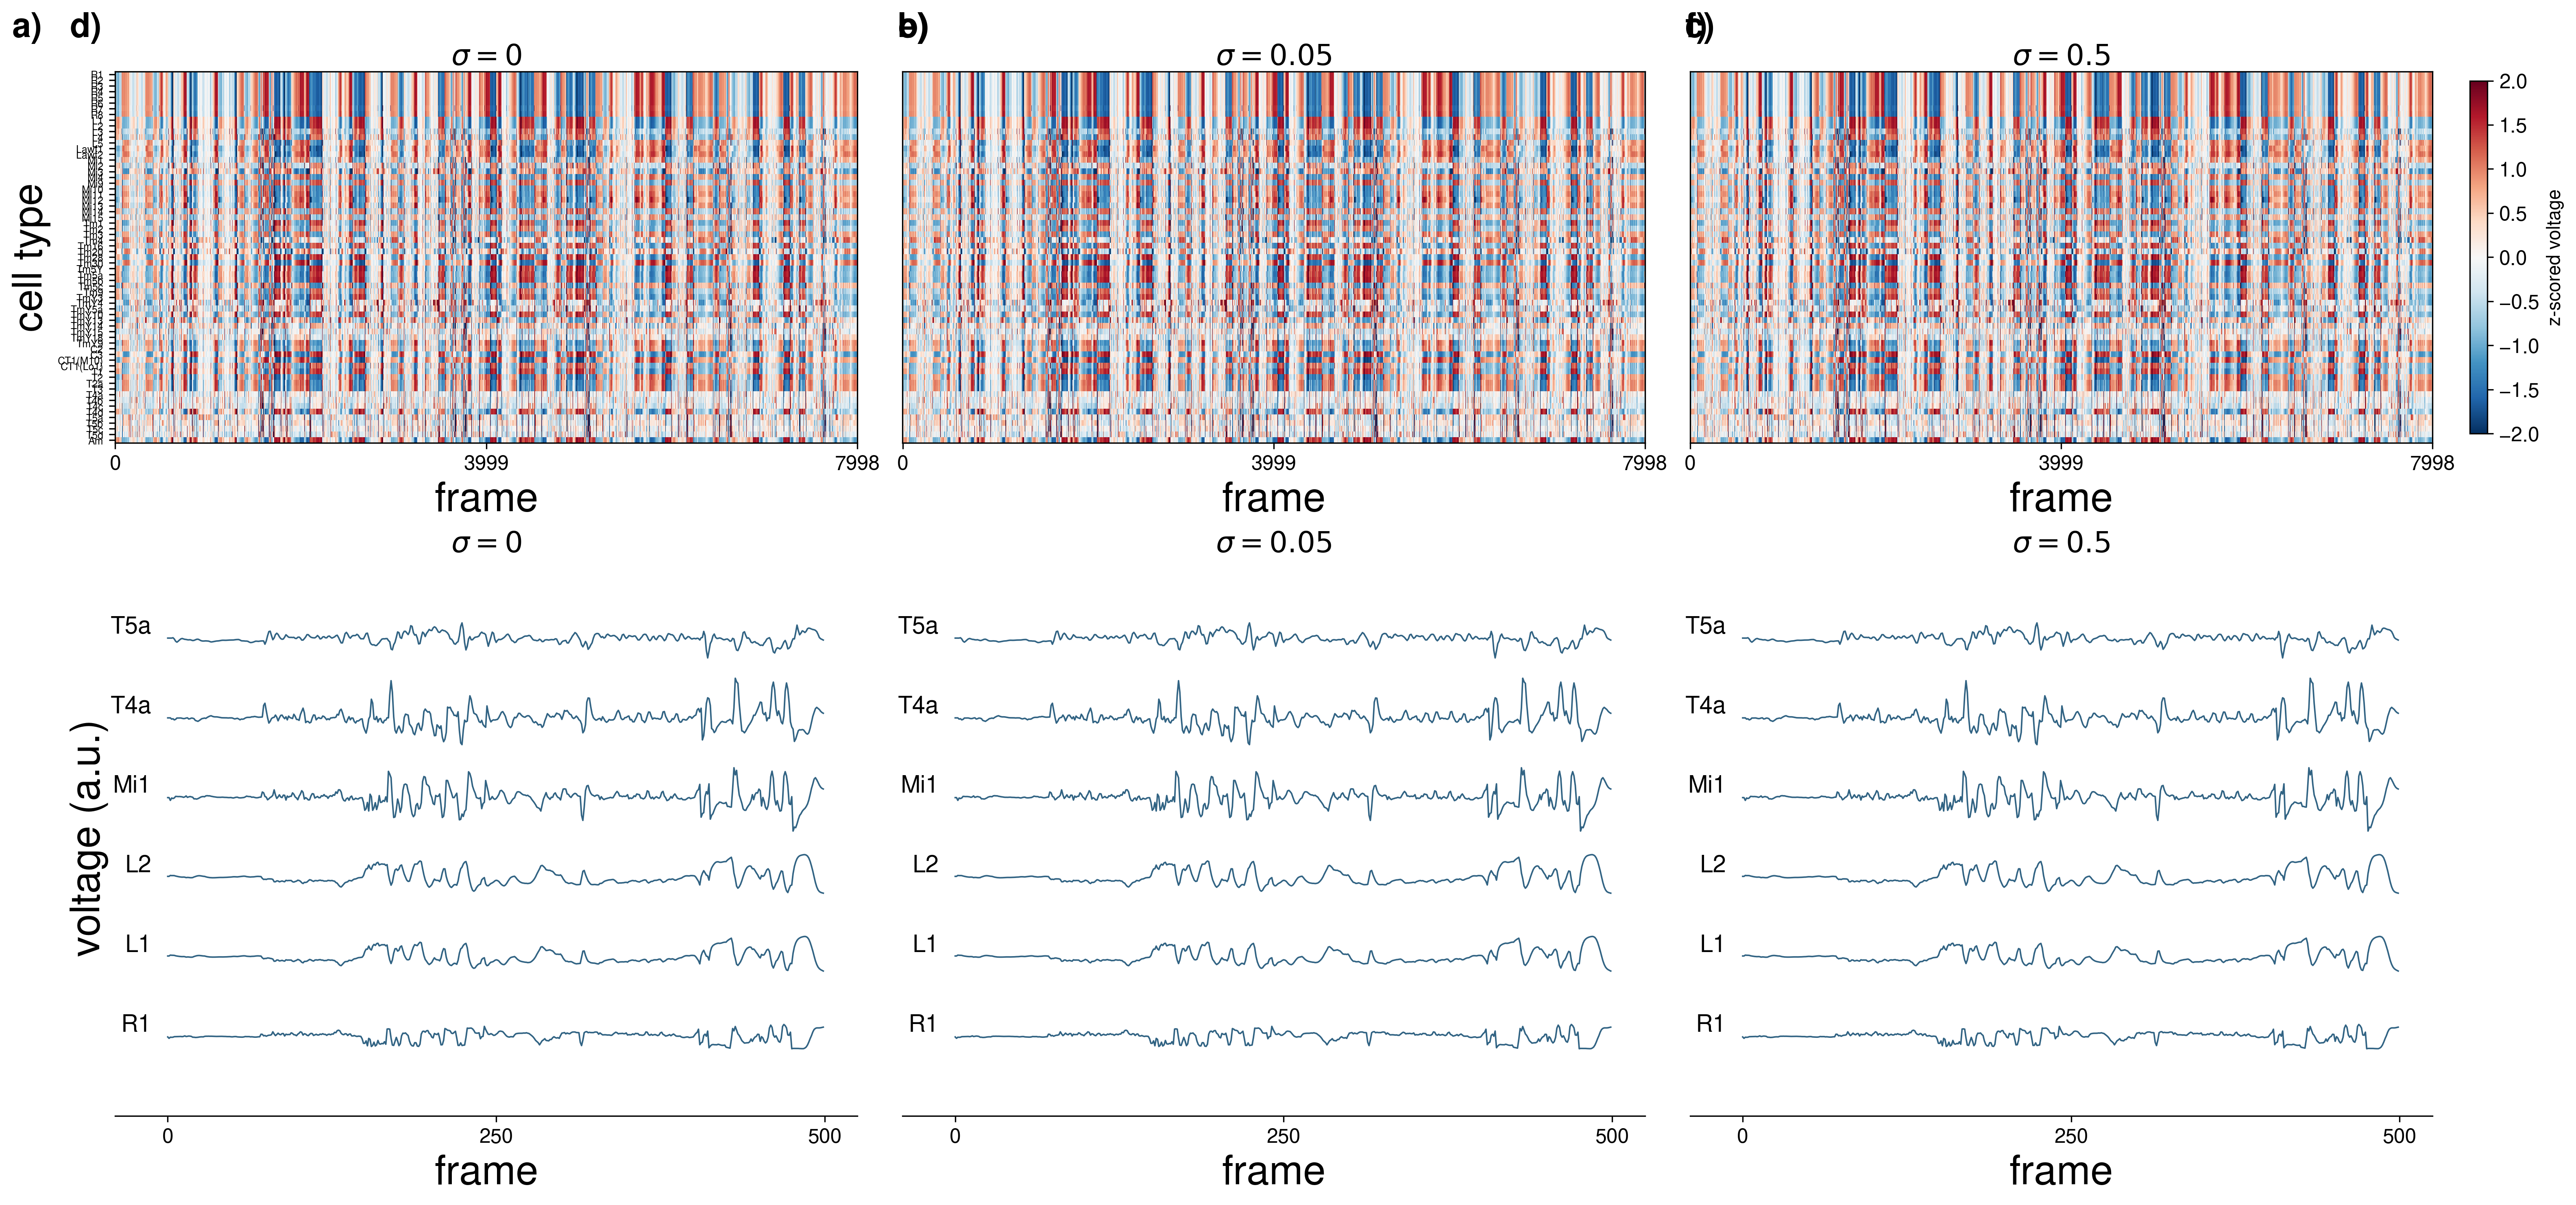
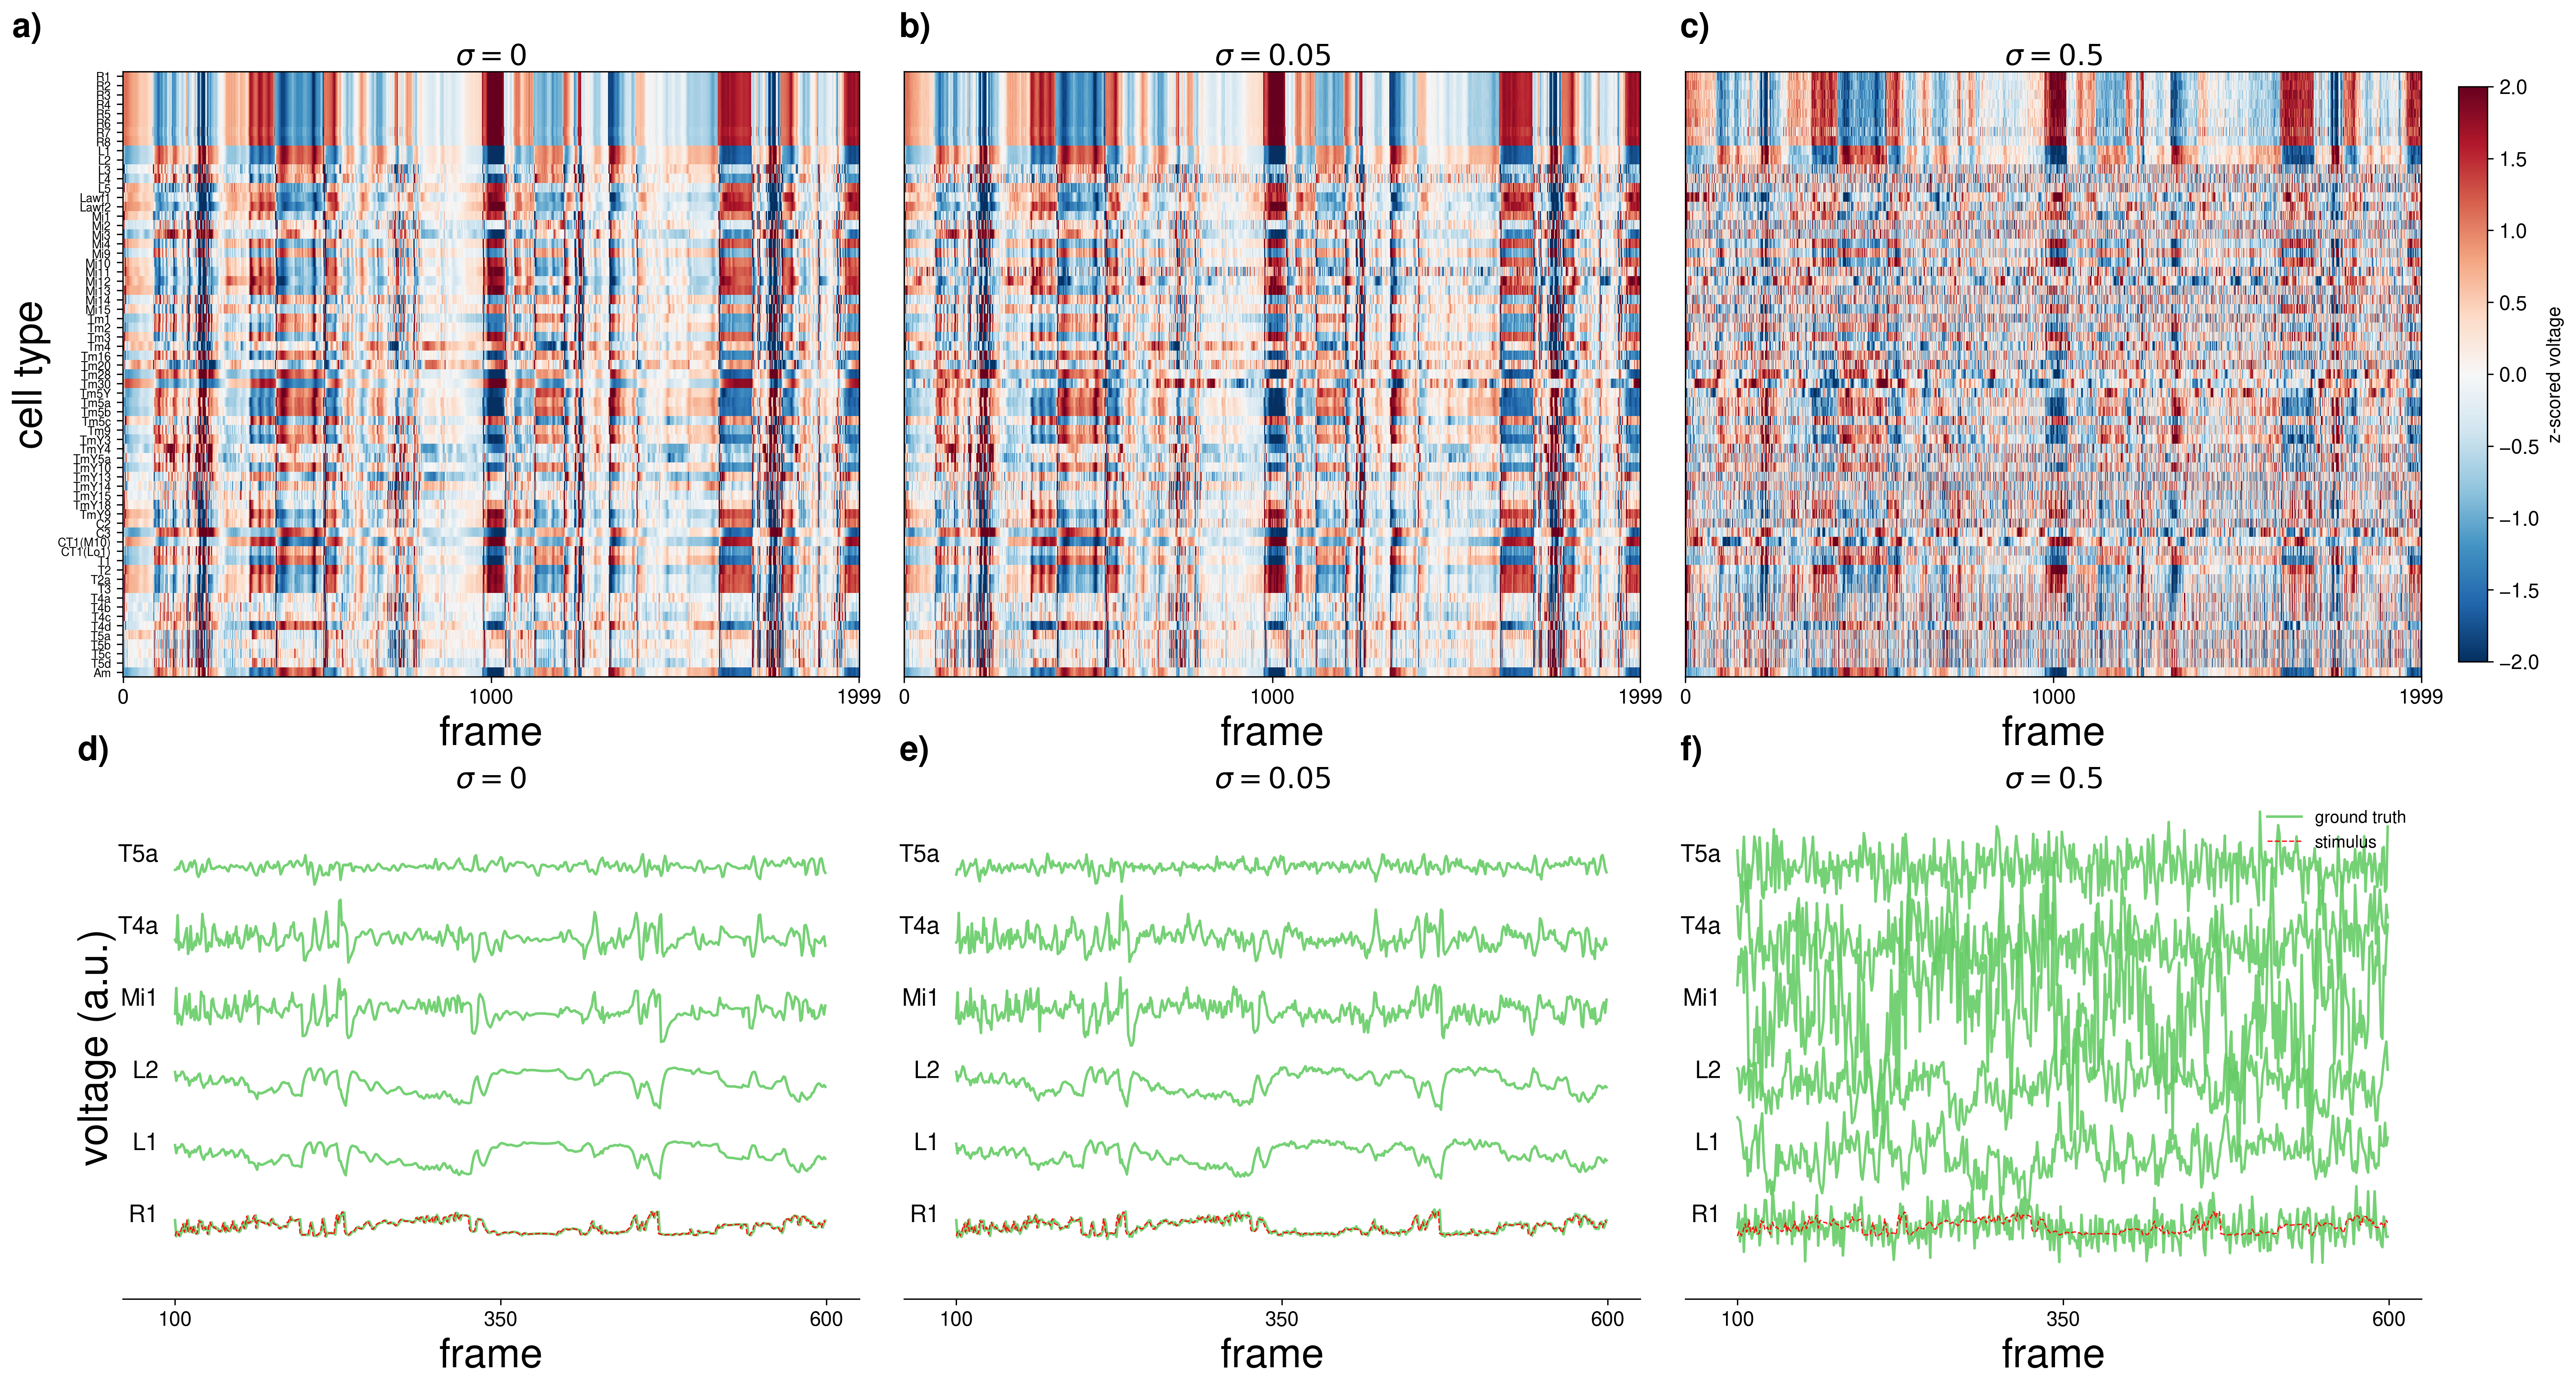
Update fig_simulations: zarr training data, taller heatmap, stimulus traces, label fix
- Load from x_list_train zarr (voltage, stimulus, neuron_type fields) instead
  of rollout_bundle.npz — shows actual noisy training data, not test rollout
- height_ratios [2,3] → [3,2.5]: taller heatmap so cell-type names are legible
- Trace panel: add red dashed stimulus trace (I_i(t)) for types with non-zero
  input (R1 photoreceptors), matching graph_tester.py style
- Panel labels: compute separate y1_max per row so a/b/c align within row 0
  and d/e/f align within row 1, instead of all 6 at global top

diff --git a/figures/fig_simulations.py b/figures/fig_simulations.py
@@ -3,19 +3,22 @@ Figure: simulated neural activity at three intrinsic-noise levels.
 
 Layout (2 rows × 3 columns)
 ---------------------------
-  Row 1 (a–c): type-mean voltage heatmap — 65 cell types × 7 999 frames,
-               z-scored per type, sorted by anatomical order.
-               Conveys the full scale of the training dataset.
+  Row 1 (a–c): type-mean voltage heatmap — 65 cell types × 2 000 frames,
+               z-scored per type (removes type-specific baseline/amplitude
+               so all types are equally visible), anatomically sorted.
+               Conveys the full dataset scale and type-specific dynamics.
   Row 2 (d–f): stacked voltage traces for 6 representative cell types
                (R1 · L1 · L2 · Mi1 · T4a · T5a) over a 500-frame window.
+               Red dashed line = visual-input stimulus I_i(t).
                Conveys the noise effect on individual neuronal dynamics.
 
 Columns left → right: σ = 0 (noise-free), σ = 0.05, σ = 0.5.
-step_v for traces is fixed from σ = 0 so noise is visually comparable.
+step_v for traces is fixed from σ = 0 data so noise is visually comparable.
 
-Input
------
-Three rollout_bundle.npz produced by GNN_Main -o test (graph_tester.py).
+Data source
+-----------
+x_list_train zarr (fields: voltage, stimulus, neuron_type) — the actual
+training data, not the test rollout bundle.
 
 Usage
 -----
@@ -36,7 +39,11 @@ import numpy as np
 # ── project imports ───────────────────────────────────────────────────────────
 REPO = os.path.join(os.path.dirname(__file__), '..')
 sys.path.insert(0, os.path.join(REPO, 'src'))
-from connectome_gnn.metrics import ANATOMICAL_ORDER
+
+from connectome_gnn.config import NeuralGraphConfig
+from connectome_gnn.metrics import ANATOMICAL_ORDER, INDEX_TO_NAME
+from connectome_gnn.utils import set_data_root, graphs_data_path, add_pre_folder
+from connectome_gnn.zarr_io import load_simulation_data
 
 # ── font style (INSTRUCTIONS.md §style) ──────────────────────────────────────
 plt.rcParams.update({
@@ -46,14 +53,14 @@ plt.rcParams.update({
     'mathtext.fontset': 'dejavusans',
 })
 
-# ── font sizes (col_width ≈ 7 in / 10 → _S = 0.52, INSTRUCTIONS.md §font) ───
+# ── font sizes (col ≈ 7 in, _S = 0.52, INSTRUCTIONS.md §font) ────────────────
 _S        = 0.52
-FS_LABEL  = int(48 * _S)    # axis labels
-FS_TICK   = int(24 * _S)    # tick labels
-FS_ANNOT  = int(28 * _S)    # type-name annotations in trace panel
-FS_TITLE  = 17              # panel subtitle (fixed, INSTRUCTIONS.md)
-PANEL_LBL = 20              # a)–f) (fixed, never scaled)
-FS_CBAR   = int(22 * _S)    # colorbar label / ticks
+FS_LABEL  = int(48 * _S)   # axis labels
+FS_TICK   = int(24 * _S)   # tick labels
+FS_ANNOT  = int(28 * _S)   # type-name annotations in trace panel
+FS_TITLE  = 17             # panel subtitle  (fixed, INSTRUCTIONS.md)
+PANEL_LBL = 20             # a)–f)           (fixed, never scaled)
+FS_CBAR   = int(22 * _S)   # colorbar label
 
 # ── data ──────────────────────────────────────────────────────────────────────
 DATA_ROOT = '/groups/saalfeld/home/allierc/GraphData'
@@ -62,108 +69,139 @@ CONFIGS = [
     ('flyvis_noise_005',  DATA_ROOT, r'$\sigma = 0.05$'),
     ('flyvis_noise_05',   DATA_ROOT, r'$\sigma = 0.5$'),
 ]
+N_HEATMAP_FRAMES = 2000    # frames loaded for the heatmap (zarr subsample)
 
 # ── selected types for trace panels ──────────────────────────────────────────
-# Covers the canonical visual pathway: photoreceptors → lamina → medulla
-# → direction-selective. Type indices from type_names list (alphabetical order).
-#   R1=23, L1=5, L2=6, Mi1=12, T4a=35, T5a=39
+# Type indices in the alphabetical list (R1=23, L1=5, L2=6, Mi1=12, T4a=35, T5a=39)
 SELECTED_TYPES = [23, 5, 6, 12, 35, 39]
-TRACE_START    = 0
-TRACE_END      = 500
+TRACE_START    = 100
+TRACE_END      = 600   # 500-frame window
 
-# ── heatmap style ────────────────────────────────────────────────────────────
-CMAP   = 'RdBu_r'
-VLIM   = 2.0      # ±2 σ clipping
-COLOR  = '#1a5276' # single trace color — consistent across noise levels
+# ── heatmap style ─────────────────────────────────────────────────────────────
+CMAP  = 'RdBu_r'
+VLIM  = 2.0          # ±2 σ clipping for z-scored heatmap
+
+# ── trace colors — match graph_tester.py ─────────────────────────────────────
+COLOR_GT   = '#66cc66'   # green  — voltage trace
+COLOR_STIM = 'red'       # red    — stimulus
+LW_GT      = 1.5
+LW_STIM    = 0.8
+
+
+# ---------------------------------------------------------------------------
+# Data loading
+# ---------------------------------------------------------------------------
+
+def load_training_data(config_name, data_root):
+    """Load voltage, stimulus, and per-neuron type_ids from x_list_train zarr.
+
+    Returns
+    -------
+    voltage  : (n_neurons, N_HEATMAP_FRAMES)  float32
+    stimulus : (n_neurons, N_HEATMAP_FRAMES)  float32
+    type_ids : (n_neurons,)                   int
+    """
+    set_data_root(data_root)
+    cfg_path = os.path.join(REPO, 'config', 'fly', f'{config_name}.yaml')
+    config   = NeuralGraphConfig.from_yaml(cfg_path)
+    _, pre   = add_pre_folder(config_name)
+    if not config.dataset.startswith(pre):
+        config.dataset = pre + config.dataset
+
+    gdata_dir = graphs_data_path(config.dataset)
+    x_ts = load_simulation_data(
+        os.path.join(gdata_dir, 'x_list_train'),
+        fields=['voltage', 'stimulus', 'neuron_type'],
+    )
+    # subsample frames for speed (zarr lazy-loads only what is requested)
+    voltage  = x_ts.voltage[:N_HEATMAP_FRAMES].numpy().T.astype(np.float32)
+    stimulus = x_ts.stimulus[:N_HEATMAP_FRAMES].numpy().T.astype(np.float32)
+    type_ids = x_ts.neuron_type.numpy().astype(int)   # (n_neurons,)
+    return voltage, stimulus, type_ids
 
 
 # ---------------------------------------------------------------------------
 # Helpers
 # ---------------------------------------------------------------------------
 
-def _bundle_path(config_name, data_root):
-    return os.path.join(data_root, 'log', 'fly', config_name,
-                        'results', 'rollout_bundle.npz')
+def _type_heatmap(voltage, type_ids, n_types, anat_order):
+    """Type-mean voltage, z-scored per type, anatomically sorted.
 
+    z-scoring (subtract each type's mean, divide by its std) removes the
+    type-specific voltage baseline and amplitude, making all 65 types
+    equally visible in the heatmap regardless of absolute scale.
 
-def _type_heatmap(activity_true, type_ids, n_types):
-    """Mean voltage per type, z-scored across time. Returns (n_types, n_frames)."""
-    n_frames = activity_true.shape[1]
-    heat = np.zeros((n_types, n_frames), dtype=np.float32)
+    Returns (n_sorted_types, n_frames) array and corresponding name list.
+    """
+    n_frames  = voltage.shape[1]
+    type_mean = np.zeros((n_types, n_frames), dtype=np.float32)
     for t in range(n_types):
         mask = type_ids == t
         if mask.sum() > 0:
-            heat[t] = activity_true[mask].mean(axis=0)
-    mu  = heat.mean(axis=1, keepdims=True)
-    std = heat.std(axis=1,  keepdims=True)
-    return (heat - mu) / (std + 1e-6)
-
-
-def _selected_traces(activity_true, type_ids):
-    """Return dict type_idx → (n_frames,) trace for one neuron per selected type."""
-    out = {}
-    for t in SELECTED_TYPES:
-        rows = np.where(type_ids == t)[0]
-        if len(rows):
-            out[t] = activity_true[rows[0], TRACE_START:TRACE_END]
-    return out
+            type_mean[t] = voltage[mask].mean(axis=0)
+    mu  = type_mean.mean(axis=1, keepdims=True)
+    std = type_mean.std(axis=1,  keepdims=True)
+    z   = (type_mean - mu) / (std + 1e-6)
+    valid = [i for i in anat_order if i is not None and i < n_types]
+    names = [INDEX_TO_NAME.get(i, f'Type{i}') for i in valid]
+    return z[valid], names
 
 
 # ---------------------------------------------------------------------------
-# Load all data (one bundle at a time to limit peak memory)
+# Load all data (one config at a time to keep peak memory low)
 # ---------------------------------------------------------------------------
-# anatomical sort order (filter None and out-of-range indices)
-n_types_ref = 65
-anat_order  = [i for i in ANATOMICAL_ORDER if i is not None and i < n_types_ref]
+anat_order = ANATOMICAL_ORDER   # may contain None at index 0
+n_types    = len(INDEX_TO_NAME) # 65
 
-heatmaps     = []
-trace_sets   = []
-type_names_ref = None
+heatmaps   = []
+trace_data = []   # list of (voltage, stimulus, type_ids) for trace window only
+sorted_names_ref = None
 
-for config_name, data_root, _ in CONFIGS:
-    path = _bundle_path(config_name, data_root)
+for config_name, data_root, sigma_lbl in CONFIGS:
     print(f'loading {config_name} ...')
-    b = np.load(path, allow_pickle=True)
-    act   = b['activity_true']                # (n_neurons, n_frames)
-    tids  = b['type_ids'].astype(int)
-    tname = list(b['type_names'])
-    n_types = len(tname)
-    if type_names_ref is None:
-        type_names_ref = tname
+    voltage, stimulus, type_ids = load_training_data(config_name, data_root)
 
-    hz = _type_heatmap(act, tids, n_types)    # (n_types, n_frames)
-    heatmaps.append(hz[anat_order])           # anatomically sorted
+    # heatmap over all N_HEATMAP_FRAMES
+    hz, snames = _type_heatmap(voltage, type_ids, n_types, anat_order)
+    heatmaps.append(hz)
+    if sorted_names_ref is None:
+        sorted_names_ref = snames
 
-    trace_sets.append(_selected_traces(act, tids))
-    del act                                   # free 400 MB
+    # keep only the trace window to save memory
+    v_win   = voltage[:,  TRACE_START:TRACE_END]   # (n_neurons, 500)
+    s_win   = stimulus[:, TRACE_START:TRACE_END]   # (n_neurons, 500)
+    trace_data.append((v_win, s_win, type_ids))
 
-sorted_names = [type_names_ref[i] for i in anat_order]
+    del voltage, stimulus   # free ~400 MB
 
-# step_v fixed from σ=0 data so noise is visually comparable across columns
-free_traces = np.array(list(trace_sets[0].values()))   # (6, 500)
-activity_std = np.std(free_traces)
-step_v = max(0.5, 3.0 * activity_std)
+# fixed step_v from σ=0 (noise-free) data so noise effect is visually comparable
+v_free, _, tids_free = trace_data[0]
+free_traces = np.stack([v_free[np.where(tids_free == t)[0][0]]
+                        for t in SELECTED_TYPES
+                        if len(np.where(tids_free == t)[0]) > 0])
+step_v = max(0.5, 3.0 * float(np.std(free_traces)))
 
 
 # ---------------------------------------------------------------------------
 # Build figure
 # ---------------------------------------------------------------------------
 fig, axes = plt.subplots(
-    2, 3, figsize=(21, 9.5), dpi=300,
+    2, 3, figsize=(21, 11), dpi=300,
     constrained_layout=True,
-    gridspec_kw={'height_ratios': [2, 3]},
+    gridspec_kw={'height_ratios': [3, 2.5]},   # taller heatmap row
 )
 
-n_types_plot = len(anat_order)
-n_frames     = heatmaps[0].shape[1]
+n_sorted  = len(sorted_names_ref)
+n_frames  = heatmaps[0].shape[1]
+n_tframes = TRACE_END - TRACE_START
 
 last_im = None
-for col, (heat_z, traces, (_, _, sigma_lbl)) in enumerate(
-        zip(heatmaps, trace_sets, CONFIGS)):
+for col, (hz, (v_win, s_win, type_ids), (_, _, sigma_lbl)) in enumerate(
+        zip(heatmaps, trace_data, CONFIGS)):
 
     # ── row 0: heatmap ────────────────────────────────────────────────────────
     ax_h = axes[0, col]
-    im   = ax_h.imshow(heat_z, aspect='auto', interpolation='nearest',
+    im   = ax_h.imshow(hz, aspect='auto', interpolation='nearest',
                        cmap=CMAP, vmin=-VLIM, vmax=VLIM, origin='upper')
     last_im = im
     ax_h.set_title(sigma_lbl, fontsize=FS_TITLE, pad=4)
@@ -172,38 +210,54 @@ for col, (heat_z, traces, (_, _, sigma_lbl)) in enumerate(
                           fontsize=FS_TICK)
     ax_h.set_xlabel('frame', fontsize=FS_LABEL)
     if col == 0:
-        ax_h.set_yticks(range(n_types_plot))
-        ax_h.set_yticklabels(sorted_names, fontsize=6)
+        ax_h.set_yticks(range(n_sorted))
+        ax_h.set_yticklabels(sorted_names_ref, fontsize=7)
         ax_h.set_ylabel('cell type', fontsize=FS_LABEL)
     else:
         ax_h.set_yticks([])
 
     # ── row 1: traces ─────────────────────────────────────────────────────────
-    ax_t  = axes[1, col]
-    row   = 0
+    ax_t = axes[1, col]
+    row  = 0
+    first_gt   = True
+    first_stim = True
     for t_idx in SELECTED_TYPES:
-        if t_idx not in traces:
+        neuron_rows = np.where(type_ids == t_idx)[0]
+        if len(neuron_rows) == 0:
             continue
-        trace = traces[t_idx]
+        nid   = neuron_rows[0]
+        trace = v_win[nid]
+        stim  = s_win[nid]
         bl    = trace.mean()
+
+        # voltage trace (green)
         ax_t.plot(trace - bl + row * step_v,
-                  lw=0.9, color=COLOR, alpha=0.9)
-        ax_t.text(-(TRACE_END - TRACE_START) * 0.025, row * step_v,
-                  type_names_ref[t_idx],
+                  lw=LW_GT, color=COLOR_GT, alpha=0.9,
+                  label='ground truth' if first_gt else None)
+        first_gt = False
+
+        # stimulus trace (red dashed) — only when non-trivial
+        if stim.mean() > 0:
+            ax_t.plot(stim - stim.mean() + row * step_v,
+                      lw=LW_STIM, color=COLOR_STIM, alpha=0.9,
+                      linestyle='--',
+                      label='stimulus' if first_stim else None)
+            first_stim = False
+
+        # type-name label on the left
+        ax_t.text(-n_tframes * 0.025, row * step_v,
+                  INDEX_TO_NAME.get(t_idx, f'Type{t_idx}'),
                   fontsize=FS_ANNOT, va='bottom', ha='right', color='black')
         row += 1
 
-    n_rows   = row
-    n_tframes = TRACE_END - TRACE_START
+    n_rows = row
     ax_t.set_ylim([-step_v, (n_rows - 1) * step_v + step_v])
     ax_t.set_yticks([])
     ax_t.set_xticks([0, n_tframes // 2, n_tframes])
-    ax_t.set_xticklabels([TRACE_START,
-                           (TRACE_START + TRACE_END) // 2,
-                           TRACE_END], fontsize=FS_TICK)
+    ax_t.set_xticklabels([TRACE_START, (TRACE_START + TRACE_END) // 2, TRACE_END],
+                          fontsize=FS_TICK)
     ax_t.set_xlabel('frame', fontsize=FS_LABEL)
-    ax_t.set_xlim([-(TRACE_END - TRACE_START) * 0.08,
-                    (TRACE_END - TRACE_START) * 1.05])
+    ax_t.set_xlim([-n_tframes * 0.08, n_tframes * 1.05])
     ax_t.set_title(sigma_lbl, fontsize=FS_TITLE, pad=4)
     ax_t.spines['top'].set_visible(False)
     ax_t.spines['right'].set_visible(False)
@@ -211,22 +265,35 @@ for col, (heat_z, traces, (_, _, sigma_lbl)) in enumerate(
     if col == 0:
         ax_t.set_ylabel('voltage (a.u.)', fontsize=FS_LABEL)
 
+    # legend only on the rightmost trace panel
+    if col == 2:
+        ax_t.legend(loc='upper right', bbox_to_anchor=(1.0, 1.0),
+                    bbox_transform=ax_t.transAxes,
+                    fontsize=int(20 * _S), frameon=False)
+
 # ── shared colorbar (right of top-right heatmap) ─────────────────────────────
 cbar = fig.colorbar(last_im, ax=axes[0, 2], shrink=0.95, pad=0.02)
 cbar.set_label('z-scored voltage', fontsize=FS_CBAR)
 cbar.ax.tick_params(labelsize=FS_TICK)
 
-# ── panel labels at outer box top-left, all at same y (INSTRUCTIONS.md) ──────
+# ── panel labels — row 0 aligned together, row 1 aligned together ─────────────
+# (INSTRUCTIONS.md: use y1_max per row so labels within each row share the
+#  same y; rows at different heights naturally get their own y level)
 fig.canvas.draw()
-renderer = fig.canvas.get_renderer()
-inv      = fig.transFigure.inverted()
-all_axes = list(axes[0]) + list(axes[1])
-bboxes   = [ax.get_tightbbox(renderer) for ax in all_axes]
-y1_max   = max(inv.transform((bb.x0, bb.y1))[1] for bb in bboxes)
-for bb, lbl in zip(bboxes, ['a)', 'b)', 'c)', 'd)', 'e)', 'f)']):
-    x0 = inv.transform((bb.x0, bb.y1))[0]
-    fig.text(x0, y1_max, lbl, fontsize=PANEL_LBL, fontweight='bold',
-             va='bottom', ha='left', color='black', transform=fig.transFigure)
+renderer  = fig.canvas.get_renderer()
+inv       = fig.transFigure.inverted()
+
+for row_axes, row_labels in [
+    (axes[0], ['a)', 'b)', 'c)']),
+    (axes[1], ['d)', 'e)', 'f)']),
+]:
+    bboxes = [ax.get_tightbbox(renderer) for ax in row_axes]
+    y1_max = max(inv.transform((bb.x0, bb.y1))[1] for bb in bboxes)
+    for bb, lbl in zip(bboxes, row_labels):
+        x0 = inv.transform((bb.x0, bb.y1))[0]
+        fig.text(x0, y1_max, lbl, fontsize=PANEL_LBL, fontweight='bold',
+                 va='bottom', ha='left', color='black',
+                 transform=fig.transFigure)
 
 # ── save ─────────────────────────────────────────────────────────────────────
 OUT_DIR  = os.path.dirname(os.path.abspath(__file__))